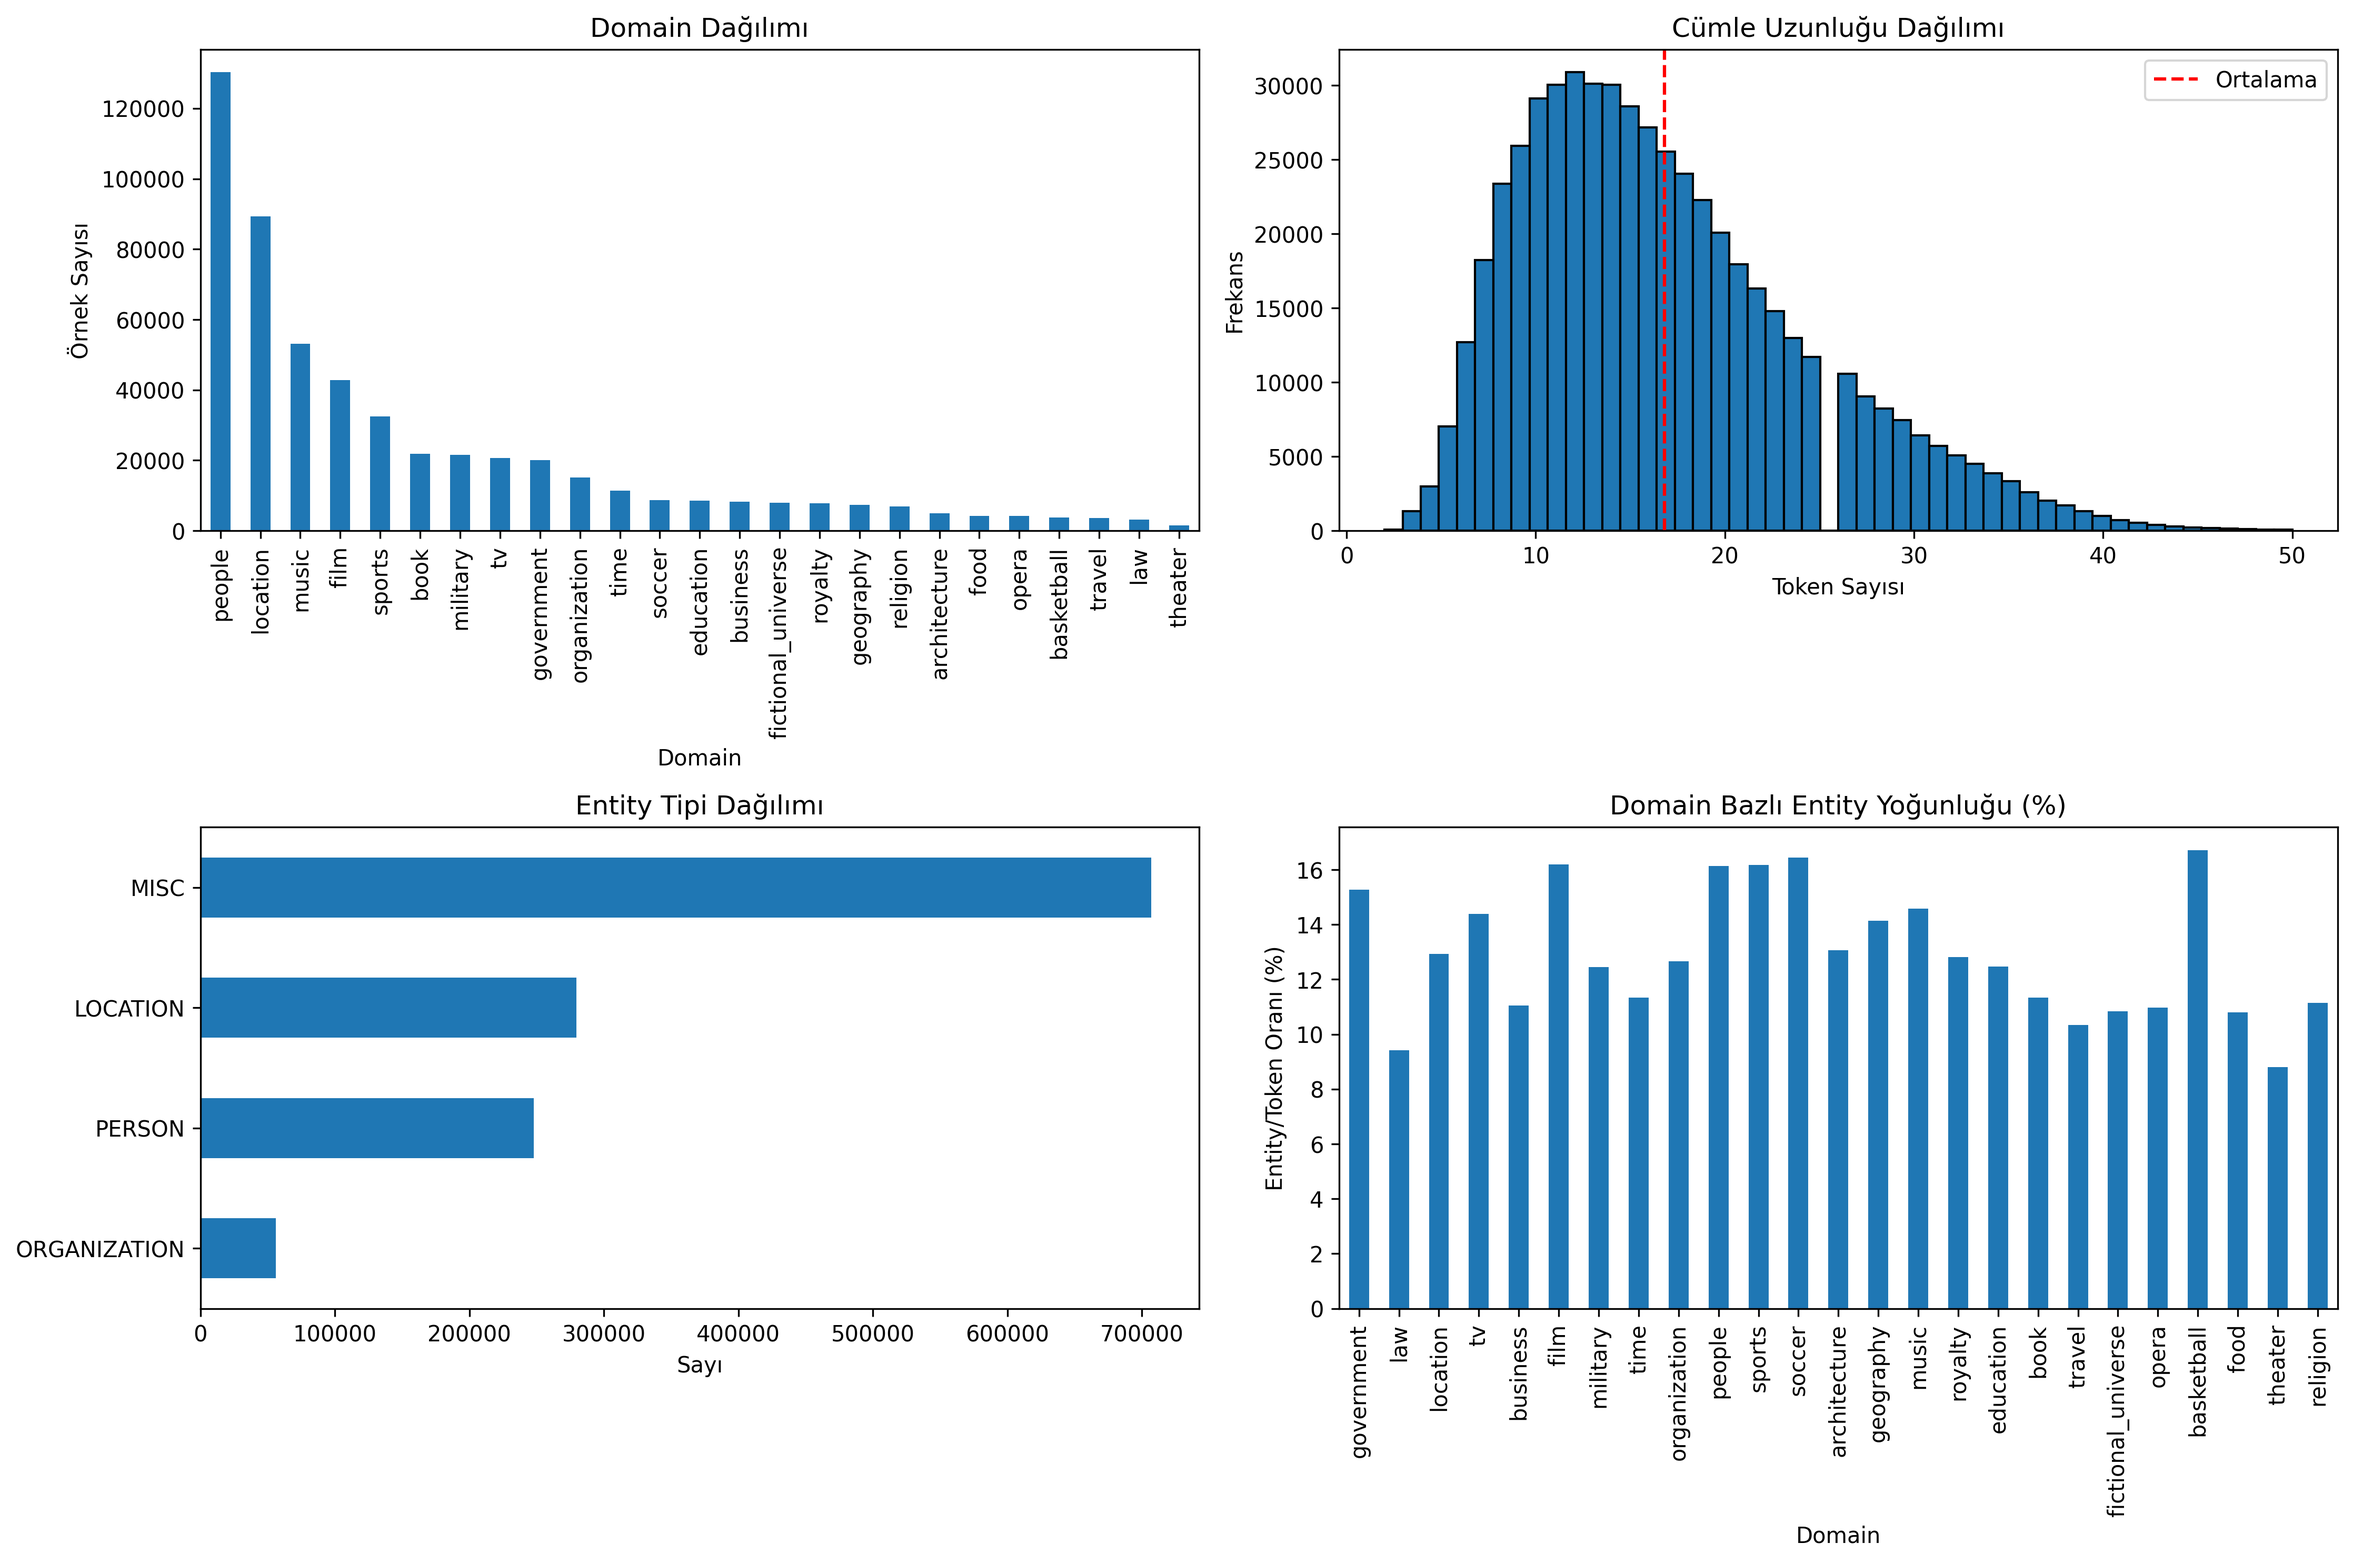
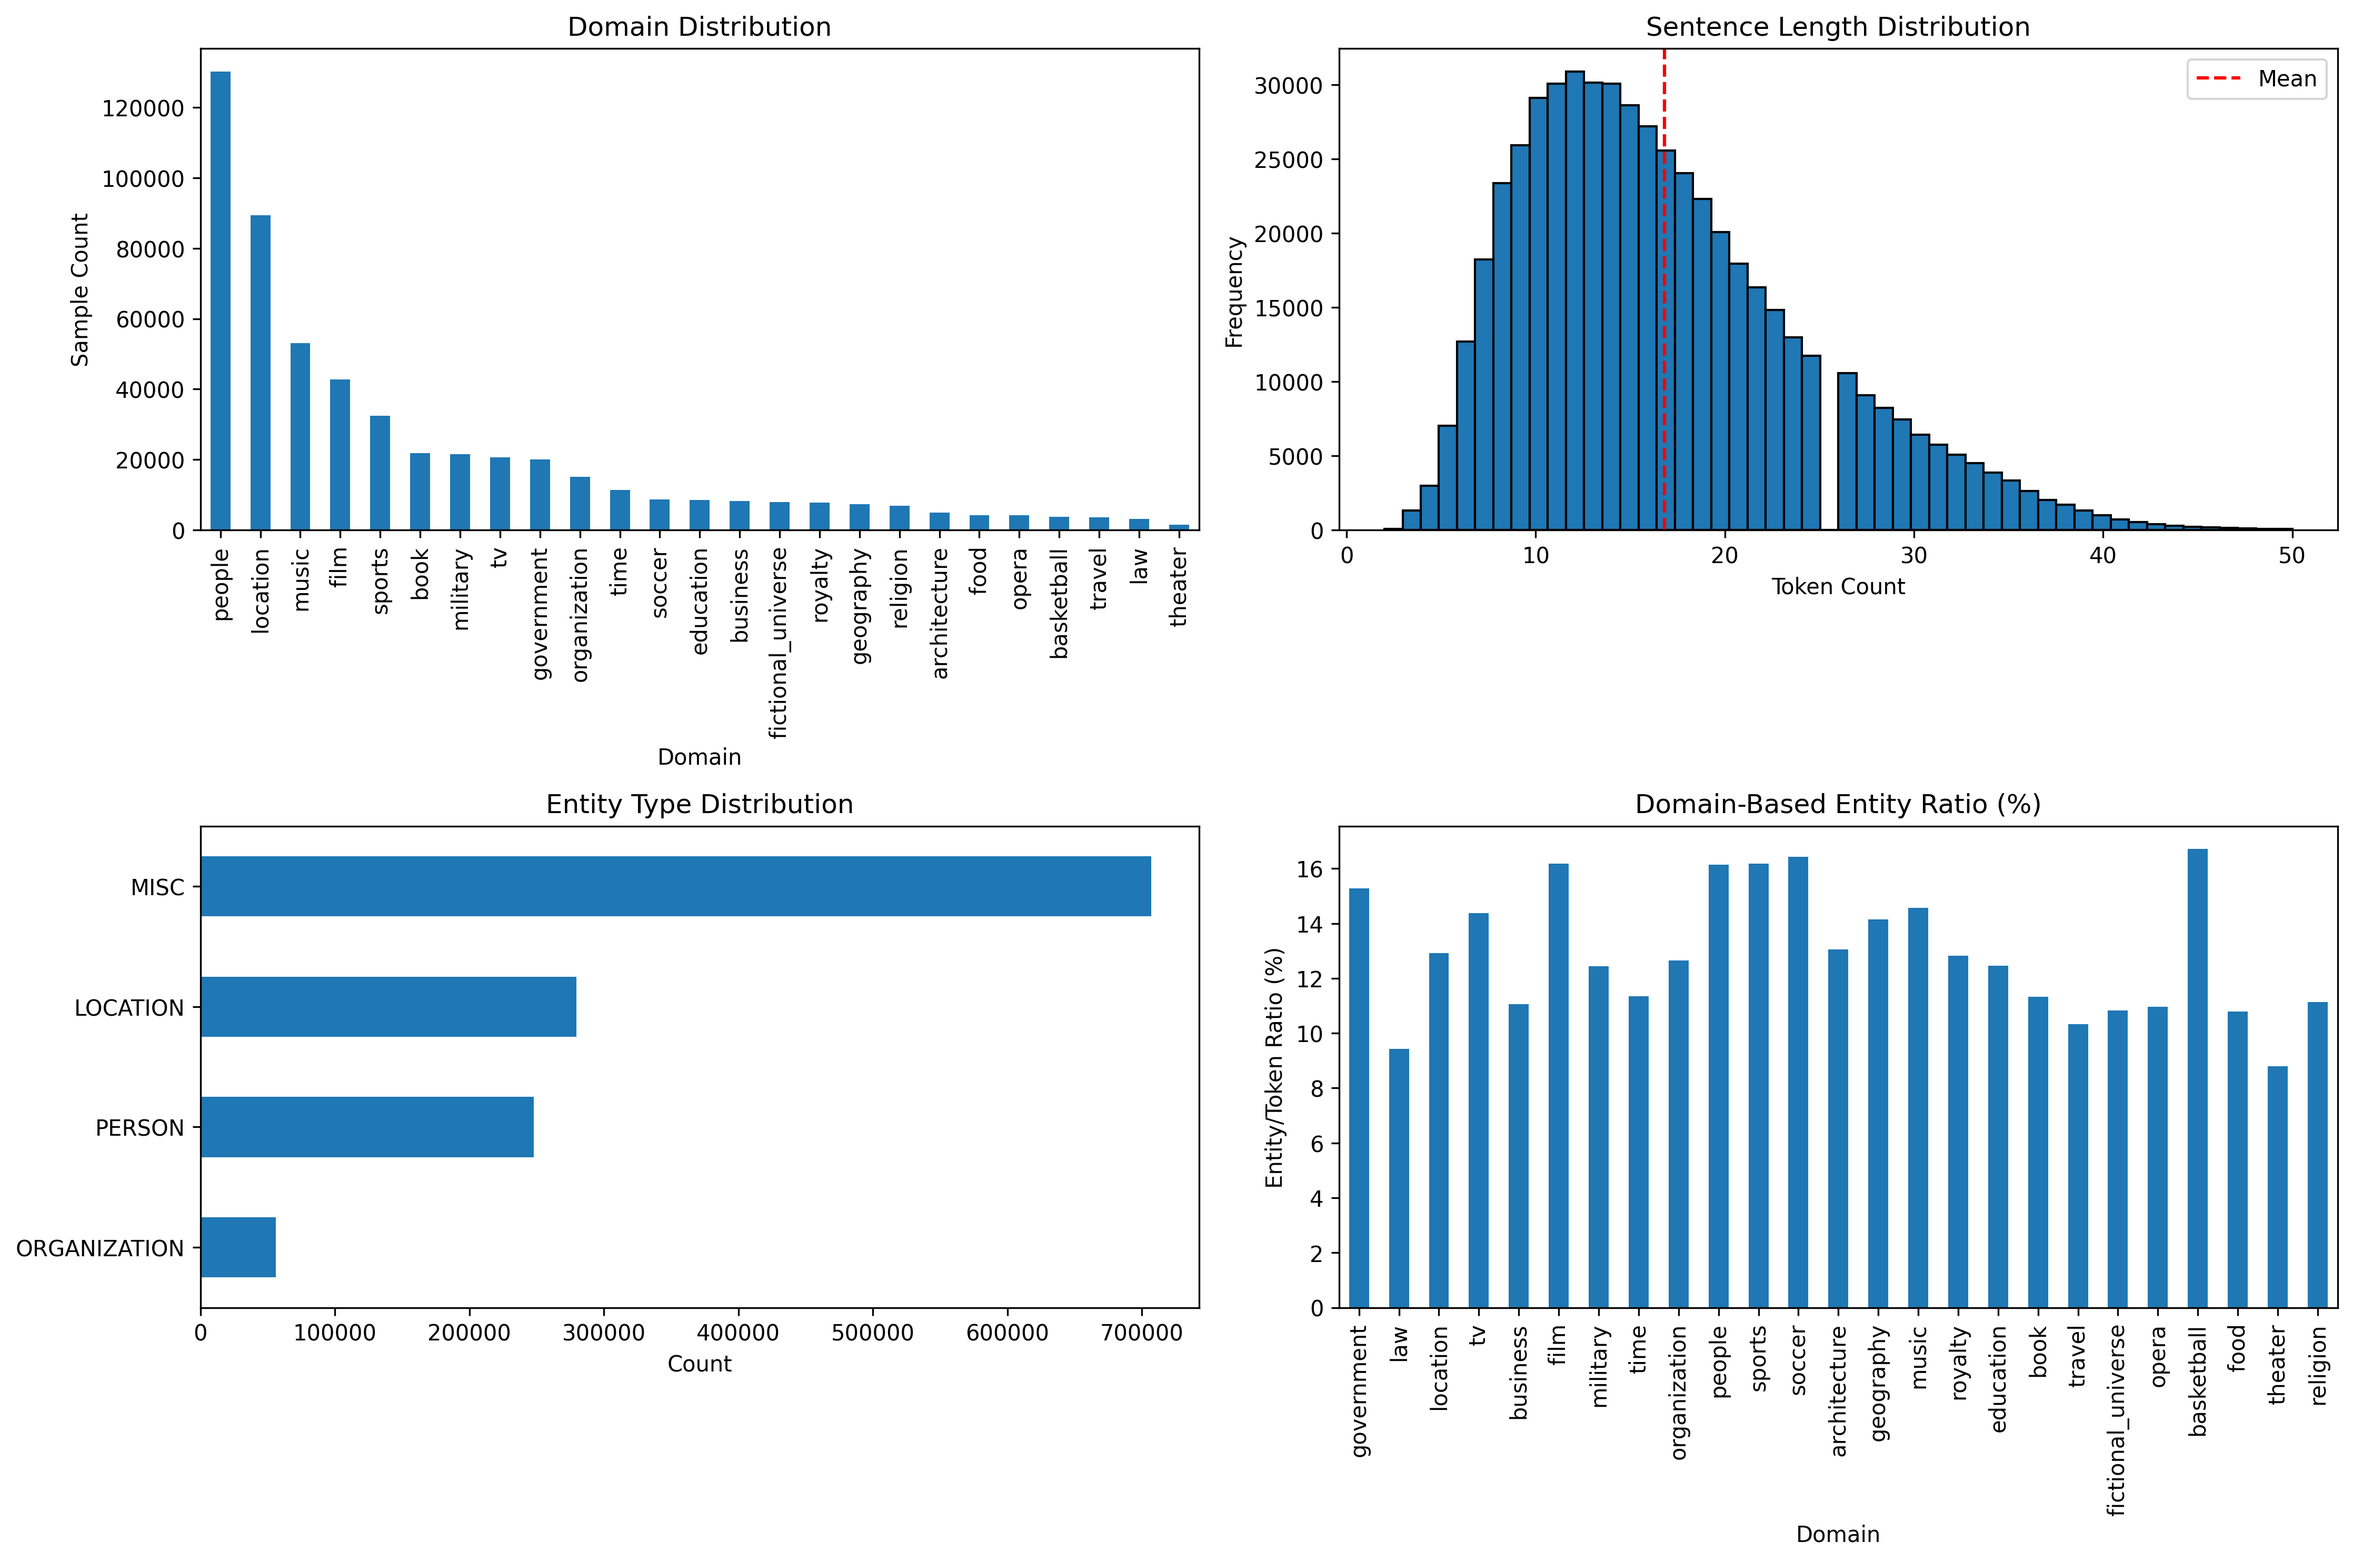
ner final version

diff --git a/data_loader.py b/data_loader.py
@@ -119,17 +119,17 @@ class TWNERTCLoader:
         
         # 1. Domain dağılımı
         self.data['domain'].value_counts().plot(kind='bar', ax=axes[0, 0])
-        axes[0, 0].set_title('Domain Dağılımı')
+        axes[0, 0].set_title('Domain Distribution')
         axes[0, 0].set_xlabel('Domain')
-        axes[0, 0].set_ylabel('Örnek Sayısı')
+        axes[0, 0].set_ylabel('Sample Count')
         
         # 2. Cümle uzunluğu dağılımı
         token_lengths = self.data['tokens'].apply(len)
         axes[0, 1].hist(token_lengths, bins=50, edgecolor='black')
-        axes[0, 1].set_title('Cümle Uzunluğu Dağılımı')
-        axes[0, 1].set_xlabel('Token Sayısı')
-        axes[0, 1].set_ylabel('Frekans')
-        axes[0, 1].axvline(token_lengths.mean(), color='r', linestyle='--', label='Ortalama')
+        axes[0, 1].set_title('Sentence Length Distribution')
+        axes[0, 1].set_xlabel('Token Count')
+        axes[0, 1].set_ylabel('Frequency')
+        axes[0, 1].axvline(token_lengths.mean(), color='r', linestyle='--', label='Mean')
         axes[0, 1].legend()
         
         # 3. Entity tipi dağılımı
@@ -140,8 +140,8 @@ class TWNERTCLoader:
         
         entities_df = pd.DataFrame.from_dict(entity_type_counts, orient='index', columns=['count'])
         entities_df.sort_values('count', ascending=True).plot(kind='barh', ax=axes[1, 0], legend=False)
-        axes[1, 0].set_title('Entity Tipi Dağılımı')
-        axes[1, 0].set_xlabel('Sayı')
+        axes[1, 0].set_title('Entity Type Distribution')
+        axes[1, 0].set_xlabel('Count')
         
         # 4. Domain bazlı entity yoğunluğu
         domain_entity_density = {}
@@ -153,9 +153,9 @@ class TWNERTCLoader:
             domain_entity_density[domain] = (entity_count / total_tokens) * 100
         
         pd.Series(domain_entity_density).plot(kind='bar', ax=axes[1, 1])
-        axes[1, 1].set_title('Domain Bazlı Entity Yoğunluğu (%)')
+        axes[1, 1].set_title('Domain-Based Entity Ratio (%)')
         axes[1, 1].set_xlabel('Domain')
-        axes[1, 1].set_ylabel('Entity/Token Oranı (%)')
+        axes[1, 1].set_ylabel('Entity/Token Ratio (%)')
         
         plt.tight_layout()
         plt.savefig(save_path, dpi=300, bbox_inches='tight')

diff --git a/train.py b/train.py
@@ -71,7 +71,7 @@ def compute_metrics(eval_pred, id2label):
 
 
 def train_model(model_name, model_path, train_df, val_df, label2id, id2label, 
-                output_dir, max_length=128, batch_size=16, epochs=5, 
+                output_dir, max_length=64, batch_size=32, epochs=3, 
                 learning_rate=2e-5):
     print("\n" + "="*70)
     print(f"MODEL EĞİTİMİ: {model_name} ({model_path})")
